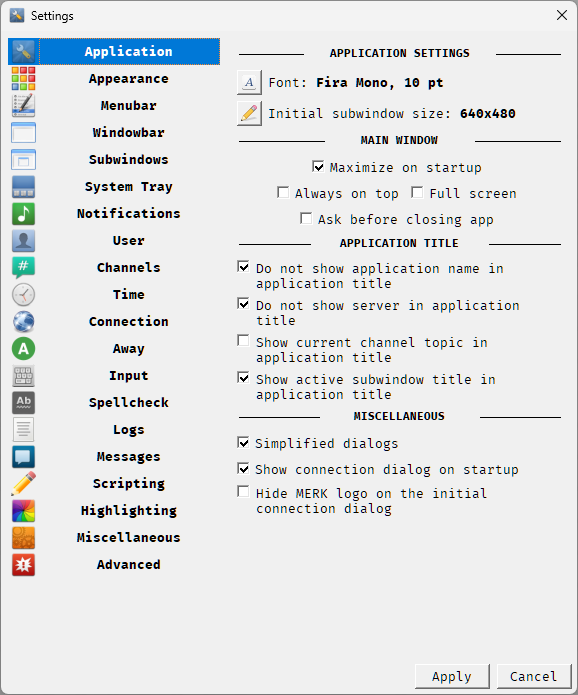
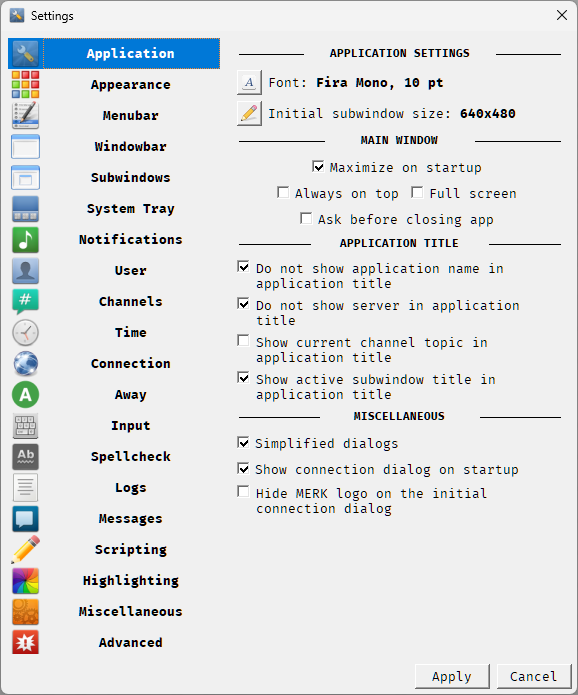
Tweaks to the settings dialog

Changed region(s): [[0.0, 0.0604, 0.3737, 0.9669], [0.1246, 0.8763, 0.3114, 0.9367]]

diff --git a/README.html b/README.html
@@ -1,4 +1,4 @@
-<h1>MERK 0.050.711</h1>
+<h1>MERK 0.050.712</h1>
 
 <p><a href="https://github.com/nutjob-laboratories/merk">Official source code repository</a></p>
 <h1 id="table-of-contents">Table of contents</h1>
@@ -14,7 +14,7 @@
 <li><a href="#does-merk-need-any-help">Does MERK need any help?</a></li>
 </ul>
 <h1 id="summary">Summary</h1>
-<p><strong>MERK</strong> is a graphical <a href="https://www.gnu.org/licenses/gpl-3.0.en.html">open source</a> <a href="https://en.wikipedia.org/wiki/Internet_Relay_Chat">Internet relay chat</a> client. The current development version is <strong>0.050.711</strong>. It uses a <a href="https://en.wikipedia.org/wiki/Multiple-document_interface">multiple-document interface</a>, much like the popular Windows IRC client <a href="https://www.mirc.com/">mIRC</a>.  <strong>MERK</strong> is written in Python 3, using the <a href="https://pypi.org/project/PyQt5/">PyQt5</a> and <a href="https://twistedmatrix.com/trac/">Twisted</a> libraries, and runs on both Windows and Linux. <strong>MERK</strong> is updated frequently with new features and bugfixes.</p>
+<p><strong>MERK</strong> is a graphical <a href="https://www.gnu.org/licenses/gpl-3.0.en.html">open source</a> <a href="https://en.wikipedia.org/wiki/Internet_Relay_Chat">Internet relay chat</a> client. The current development version is <strong>0.050.712</strong>. It uses a <a href="https://en.wikipedia.org/wiki/Multiple-document_interface">multiple-document interface</a>, much like the popular Windows IRC client <a href="https://www.mirc.com/">mIRC</a>.  <strong>MERK</strong> is written in Python 3, using the <a href="https://pypi.org/project/PyQt5/">PyQt5</a> and <a href="https://twistedmatrix.com/trac/">Twisted</a> libraries, and runs on both Windows and Linux. <strong>MERK</strong> is updated frequently with new features and bugfixes.</p>
 <p><strong>MERK</strong> is still in development, but it works, and can be used for most IRC activities.</p>
 <p>Join me on the official <strong>MERK</strong> IRC channel, <strong>#merk</strong> on the Libera Chat network! Connect to  Libera in the client as one of the built-in server suggestions, or at <strong>irc.libera.chat</strong>, port <strong>6667</strong> (you can also connect via SSL on port <strong>6697</strong>). Honestly, I work a lot, so I&#39;m almost always idle, but I pop in and chat a few times a day!</p>
 <h1 id="making-merk-portable-on-windows">Making MERK Portable on Windows</h1>

diff --git a/merk/resources/README.html b/merk/resources/README.html
@@ -1,4 +1,4 @@
-<h1>MERK 0.050.711</h1>
+<h1>MERK 0.050.712</h1>
 
 <p><a href="https://github.com/nutjob-laboratories/merk">Official source code repository</a></p>
 <h1 id="table-of-contents">Table of contents</h1>
@@ -14,7 +14,7 @@
 <li><a href="#does-merk-need-any-help">Does MERK need any help?</a></li>
 </ul>
 <h1 id="summary">Summary</h1>
-<p><strong>MERK</strong> is a graphical <a href="https://www.gnu.org/licenses/gpl-3.0.en.html">open source</a> <a href="https://en.wikipedia.org/wiki/Internet_Relay_Chat">Internet relay chat</a> client. The current development version is <strong>0.050.711</strong>. It uses a <a href="https://en.wikipedia.org/wiki/Multiple-document_interface">multiple-document interface</a>, much like the popular Windows IRC client <a href="https://www.mirc.com/">mIRC</a>.  <strong>MERK</strong> is written in Python 3, using the <a href="https://pypi.org/project/PyQt5/">PyQt5</a> and <a href="https://twistedmatrix.com/trac/">Twisted</a> libraries, and runs on both Windows and Linux. <strong>MERK</strong> is updated frequently with new features and bugfixes.</p>
+<p><strong>MERK</strong> is a graphical <a href="https://www.gnu.org/licenses/gpl-3.0.en.html">open source</a> <a href="https://en.wikipedia.org/wiki/Internet_Relay_Chat">Internet relay chat</a> client. The current development version is <strong>0.050.712</strong>. It uses a <a href="https://en.wikipedia.org/wiki/Multiple-document_interface">multiple-document interface</a>, much like the popular Windows IRC client <a href="https://www.mirc.com/">mIRC</a>.  <strong>MERK</strong> is written in Python 3, using the <a href="https://pypi.org/project/PyQt5/">PyQt5</a> and <a href="https://twistedmatrix.com/trac/">Twisted</a> libraries, and runs on both Windows and Linux. <strong>MERK</strong> is updated frequently with new features and bugfixes.</p>
 <p><strong>MERK</strong> is still in development, but it works, and can be used for most IRC activities.</p>
 <p>Join me on the official <strong>MERK</strong> IRC channel, <strong>#merk</strong> on the Libera Chat network! Connect to  Libera in the client as one of the built-in server suggestions, or at <strong>irc.libera.chat</strong>, port <strong>6667</strong> (you can also connect via SSL on port <strong>6697</strong>). Honestly, I work a lot, so I&#39;m almost always idle, but I pop in and chat a few times a day!</p>
 <h1 id="making-merk-portable-on-windows">Making MERK Portable on Windows</h1>

diff --git a/merk/dialog/settings.py b/merk/dialog/settings.py
@@ -1505,7 +1505,8 @@ class Dialog(QDialog):
 		fwidth = fm.width('X') * 27
 		self.selector.setMaximumWidth(fwidth)
 
-		add_factor = 10
+		# add_factor = 10
+		add_factor = 14
 		self.selector.setIconSize(QSize(fm.height()+add_factor,fm.height()+add_factor))
 
 		self.selector.itemClicked.connect(self.selectorClick)
@@ -4547,6 +4548,7 @@ class Dialog(QDialog):
 		dialogButtonsLayout.addWidget(self.cancelButton)
 
 		leftLayout = QVBoxLayout()
+		# leftLayout.addWidget(QLabel(' '))
 		leftLayout.addWidget(self.selector)
 
 		mainLayout = QHBoxLayout()

diff --git a/merk/resources/version.py b/merk/resources/version.py
@@ -1,1 +1,1 @@
-APPLICATION_VERSION = "0.050.711"
+APPLICATION_VERSION = "0.050.712"

diff --git a/README.md b/README.md
@@ -3,7 +3,7 @@
   <b><big>Open Source IRC Client</big></b><br>
   <i>A multiple-document interface IRC client for Windows and Linux</i><br>
   <b><big>Current stable release: <a href="https://github.com/nutjob-laboratories/merk/releases/tag/0.050.700">MERK 0.050.700</a></big></b><br>
-  <b>Current development version: 0.050.711</b><br><br>
+  <b>Current development version: 0.050.712</b><br><br>
   <b><a href="https://gofund.me/ae062139">Help Fund MERK!</a></b><br>
 </p>
 
@@ -30,13 +30,13 @@ All files are packed in [ZIP archive files](https://en.wikipedia.org/wiki/ZIP_(f
 | :----:    | :----:    | :----:    |
 | User Guide |  PDF  | [MERK User Guide](./MERK_User_Guide.pdf)  |
 | Current Release |  -  | [MERK 0.050.700 Release](https://github.com/nutjob-laboratories/merk/releases/tag/0.050.700)  |
-| Zip Archive|  Cross-platform  | [Download MERK 0.050.711 (12.03 MB)](https://www.dropbox.com/scl/fi/pf9p7ltb3uufm5akjz7l0/merk-latest.zip?rlkey=3caodopybbcxr4p9grxygxzym&st=01zsuura&dl=1)  |
-| Zip Archive|  Windows EXE | [Download MERK 0.050.711 (48.86 MB)](https://www.dropbox.com/scl/fi/4w9ufyknzac24o06710bi/merk-windows-latest.zip?rlkey=zmir67l3klg8mw0omxayzmssc&st=vb69tsdi&dl=1)|
-|   Windows Installer|  Windows Setup | [Download MERK 0.050.711 (46.03 MB)](https://www.dropbox.com/scl/fi/0u1vcg5xuntzs2b16e01b/merk_setup.zip?rlkey=8avj1gyed3txz1nfj9ev41mmh&st=zlve4c1o&dl=1)|
+| Zip Archive|  Cross-platform  | [Download MERK 0.050.712 (12.03 MB)](https://www.dropbox.com/scl/fi/pf9p7ltb3uufm5akjz7l0/merk-latest.zip?rlkey=3caodopybbcxr4p9grxygxzym&st=01zsuura&dl=1)  |
+| Zip Archive|  Windows EXE | [Download MERK 0.050.712 (48.86 MB)](https://www.dropbox.com/scl/fi/4w9ufyknzac24o06710bi/merk-windows-latest.zip?rlkey=zmir67l3klg8mw0omxayzmssc&st=vb69tsdi&dl=1)|
+|   Windows Installer|  Windows Setup | [Download MERK 0.050.712 (46.02 MB)](https://www.dropbox.com/scl/fi/0u1vcg5xuntzs2b16e01b/merk_setup.zip?rlkey=8avj1gyed3txz1nfj9ev41mmh&st=zlve4c1o&dl=1)|
 
 # Summary
   
-**MERK** is a graphical [open source](https://www.gnu.org/licenses/gpl-3.0.en.html) [Internet relay chat](https://en.wikipedia.org/wiki/Internet_Relay_Chat) client. The current development version is **0.050.711**. It uses a [multiple-document interface](https://en.wikipedia.org/wiki/Multiple-document_interface), much like the popular Windows IRC client [mIRC](https://www.mirc.com/).  **MERK** is written in Python 3, using the [PyQt5](https://pypi.org/project/PyQt5/) and [Twisted](https://twistedmatrix.com/trac/) libraries, and runs on both Windows and Linux. **MERK** is updated frequently with new features and bugfixes.
+**MERK** is a graphical [open source](https://www.gnu.org/licenses/gpl-3.0.en.html) [Internet relay chat](https://en.wikipedia.org/wiki/Internet_Relay_Chat) client. The current development version is **0.050.712**. It uses a [multiple-document interface](https://en.wikipedia.org/wiki/Multiple-document_interface), much like the popular Windows IRC client [mIRC](https://www.mirc.com/).  **MERK** is written in Python 3, using the [PyQt5](https://pypi.org/project/PyQt5/) and [Twisted](https://twistedmatrix.com/trac/) libraries, and runs on both Windows and Linux. **MERK** is updated frequently with new features and bugfixes.
 
 **MERK** is still in development, but it works, and can be used for most IRC activities. [The current stable release of **MERK** is version 0.050.700](https://github.com/nutjob-laboratories/merk/releases/tag/0.050.700). **MERK** has a user guide, which can be [viewed here](./MERK_User_Guide.pdf).
 
@@ -118,7 +118,7 @@ There are three libraries that comes bundled with **MERK**:
 
 # Screenshots
 
-<p><small><i>Screenshots may not reflect the current release (0.050.700), and may reflect the current development version (0.050.711). More screenshots are in the <a href="./MERK_User_Guide.pdf">MERK User Guide</a>.</i></small></p>
+<p><small><i>Screenshots may not reflect the current release (0.050.700), and may reflect the current development version (0.050.712). More screenshots are in the <a href="./MERK_User_Guide.pdf">MERK User Guide</a>.</i></small></p>
 
 <p align="center">
 <center><a href="./graphics/screenshot_big.png"><img src="./graphics/screenshot1.png"></a></center></br>
